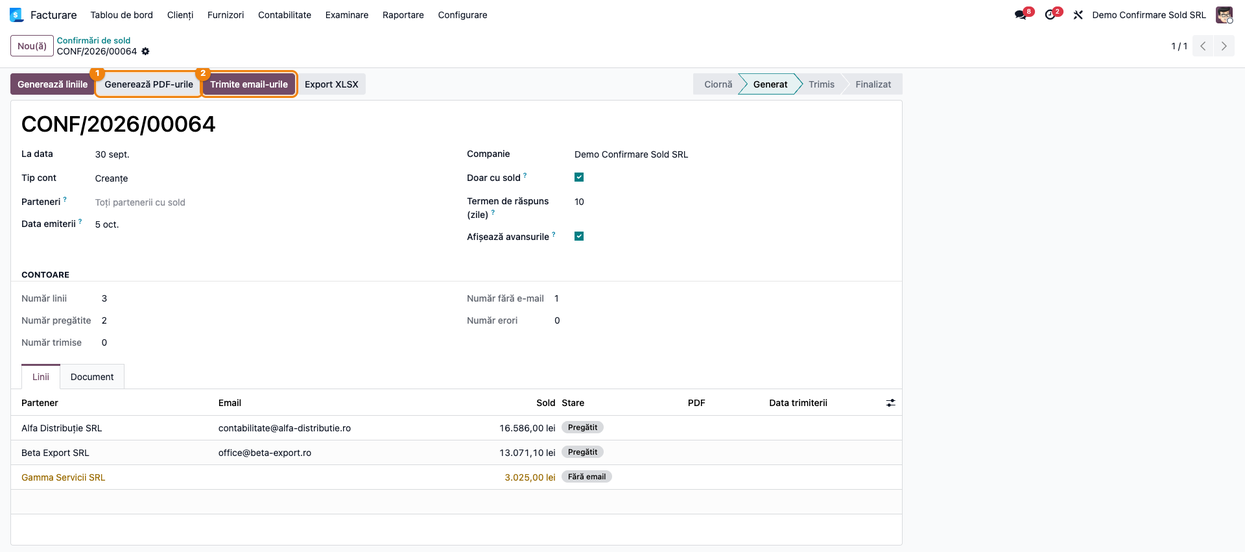
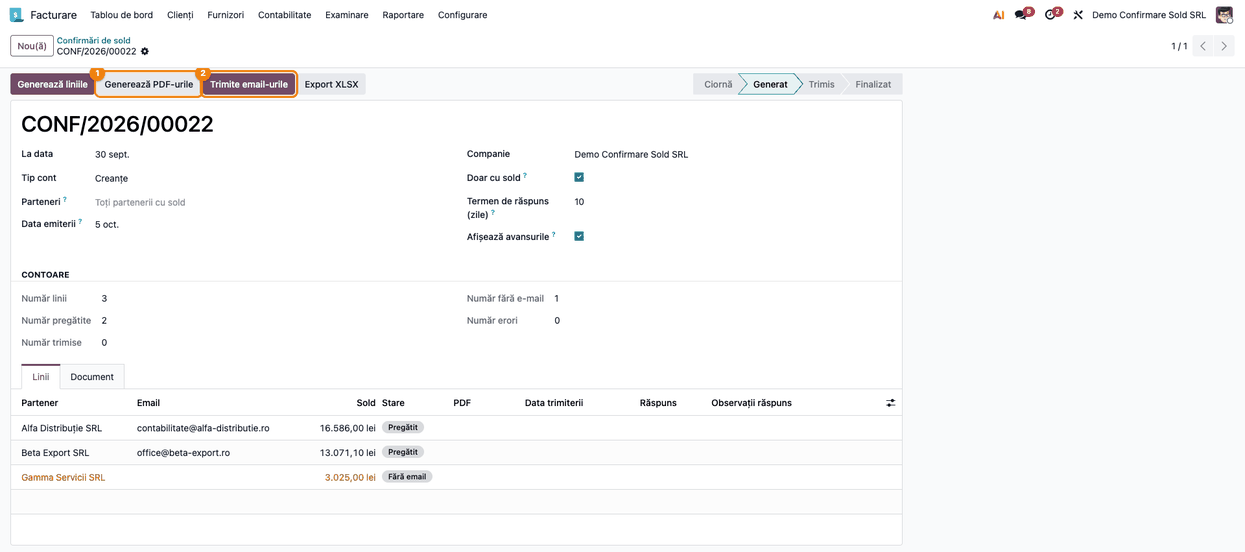
Wiki: l10n_ro_balance_confirmation 19.0.2.3.0 — urmărirea răspunsurilor partenerilor (l10n_ro_ent#709)

diff --git a/l10n_ro_balance_confirmation/FISA_CONSULTANT.md b/l10n_ro_balance_confirmation/FISA_CONSULTANT.md
@@ -20,6 +20,8 @@ Se lucrează în două feluri:
 - **tipărire la cerere**, pentru unul sau mai mulți parteneri aleși;
 - **campanie pe email**: un document numerotat care generează câte o linie per partener, atașează
   PDF-ul și îl trimite, urmărind starea fiecărui partener (pregătit / fără email / trimis / eroare).
+  Emailul rămâne în istoricul (chatterul) partenerului. Răspunsul partenerului intră în același
+  fir, iar linia arată dacă soldul a fost confirmat sau nu, cu diferența declarată de partener.
 
 ## 2. Bază legală și context
 
@@ -42,7 +44,8 @@ Se lucrează în două feluri:
 ## 3. Utilizatori și roluri
 
 - **Contabil clienți / furnizori** — tipărește confirmările la cerere și rulează campania pe email.
-- **Contabil-șef** — stabilește semnatarii impliciți și controlează răspunsurile.
+- **Contabil-șef** — stabilește semnatarii impliciți și controlează răspunsurile: marchează
+  soldurile confirmate și neconfirmate și urmărește diferențele.
 
 Drepturi necesare:
 - **Campania pe email** (meniul „Confirmări de sold”) și **tipărirea la cerere** (dialogul
@@ -90,6 +93,10 @@ Date minime pentru demo (cele din capturi, la 30.09.2026):
 5. Verificați că există un server de email de ieșire configurat (**Setări → Tehnic → Servere de
    email de ieșire**; meniul Tehnic apare în modul dezvoltator). Dacă trimiterea eșuează, linia
    campaniei trece în „Eroare”, cu mesajul serverului.
+6. Ca răspunsurile partenerilor să intre automat în Odoo, configurați **domeniul de alias** și
+   adresa **catchall** (**Setări → Setări generale → Discuții → Domeniu alias**) și un **server de
+   email de intrare**. Fără ele, emailul trimis apare tot în chatterul partenerului, dar răspunsul
+   ajunge doar în căsuța de email a companiei, iar linia se marchează manual (Pasul 10).
 
 ## 6. Flux de utilizare
 
@@ -204,7 +211,9 @@ Apăsați apoi **Generează PDF-urile** și **Trimite email-urile**.
 După trimitere, fiecare linie are:
 - starea **Trimis**;
 - PDF-ul atașat („Confirmare de sold - <partener> - <dată>.pdf”);
-- **data trimiterii**.
+- **data trimiterii**;
+- răspunsul **Așteaptă răspuns**. Grupul **Răspunsuri** de deasupra liniilor numără liniile pe
+  fiecare stare a răspunsului.
 
 Campania trece în **Finalizat** când toți partenerii cu email au primit documentul. O linie cu
 **Eroare** păstrează mesajul serverului de email. După corectare (serverul de email, adresa
@@ -213,6 +222,68 @@ partenerului sau emailul completat ulterior pe un partener „Fără email”), 
 campanie descarcă documentele deschise ale tuturor partenerilor din campanie.
 
 ![Campania trimisă: stări, PDF atașat, data trimiterii](screenshots/08_campanie_trimisa.png)
+
+### Pasul 9 — Emailul și răspunsul în chatterul partenerului
+
+Deschideți fișa partenerului (**Facturare → Clienți → Clienți**) sau apăsați, pe linia campaniei,
+butonul cu iconița de mesaje. În chatter, în dreapta, apare:
+- **emailul trimis** („Confirmare de sold la …”), cu textul în limba partenerului și PDF-ul
+  atașat. Emailul pleacă doar către partener: urmăritorii fișei nu primesc copie;
+- **răspunsul partenerului**, dacă a răspuns la email („Re: Confirmare de sold la …”), cu
+  atașamentele lui (de regulă extrasul semnat).
+
+Când răspunsul intră, linia campaniei trece automat din **Așteaptă răspuns** în **Răspuns
+primit**, iar în chatterul campaniei apare nota „Răspuns primit de la <partener>”.
+
+**Verificați:**
+- răspunsul stă imediat sub emailul trimis, ca răspuns la el;
+- atașamentul primit este extrasul semnat de partener;
+- textul spune dacă soldul e confirmat sau ce obiecții are partenerul.
+
+Numai răspunsul la emailul confirmării schimbă starea liniei. Un email nou de la partener, pe alt
+subiect, apare în chatter, dar nu atinge linia.
+
+![Chatterul partenerului: emailul confirmării și răspunsul lui](screenshots/09_chatter_partener_raspuns.png)
+
+### Pasul 10 — Marcarea răspunsurilor pe campanie
+
+Reveniți în campanie (**Facturare → Clienți → Confirmări de sold**). Butonul **Răspunsuri de
+verificat** din partea de sus arată câte linii au răspuns primit și încă nemarcat. Pe fiecare
+linie, după ce ați citit răspunsul:
+- **bifa** marchează soldul **Confirmat**;
+- **crucea** îl marchează **Neconfirmat**. Completați **Soldul partenerului** (suma declarată de
+  el): **Diferența** se calculează ca sold în evidența noastră minus soldul partenerului. Notați
+  explicația în **Observații răspuns**.
+
+Butoanele merg și fără răspuns pe email: dacă partenerul a trimis extrasul semnat pe altă cale
+(poștă, alt email), marcați linia direct din **Așteaptă răspuns**.
+
+**Verificați** pe exemplul din captură:
+- Alfa Distribuție are **Răspuns primit**: confirmarea de 16.586,00 lei din Pasul 9, încă
+  nemarcată;
+- Beta Export este **Neconfirmat**: partenerul declară 12.574,10 lei față de 13.071,10 lei la noi,
+  deci diferența este **497,00 lei** (100 EUR × 4,97). Observația spune de unde vine: o plată de
+  100 EUR pe care partenerul o are, iar noi nu;
+- contoarele **Răspunsuri** (Așteaptă / Primit / Confirmat / Neconfirmat) corespund liniilor.
+
+![Campania cu răspunsurile: Răspuns primit, Neconfirmat cu diferență](screenshots/10_campanie_raspunsuri.png)
+
+### Pasul 11 — Situația răspunsurilor pentru inventariere
+
+Accesați **Facturare → Clienți → Răspunsuri la confirmările de sold**. Lista arată toate liniile
+trimise, din toate campaniile: partenerul, soldul, data trimiterii, răspunsul, data răspunsului,
+soldul declarat de partener, diferența și observațiile. Marcarea Confirmat / Neconfirmat se poate
+face și de aici.
+
+1. **Găsiți** — filtrele **Așteaptă răspuns**, **Răspuns primit**, **Confirmat**, **Neconfirmat**
+   și gruparea pe **Campanie** sau pe **Răspuns** din căutare.
+2. **Verificați** — cu filtrul **Neconfirmat**, coloana **Diferență** are totalul în subsolul
+   listei: este suma diferențelor de lămurit. Cu filtrul **Așteaptă răspuns**, rămân partenerii
+   care n-au răspuns în termen.
+3. **Treceți mai departe** — bifați liniile filtrate și alegeți **Acțiuni → Exportă**: fișierul
+   este anexa la procesul-verbal de inventariere, cu soldurile neconfirmate și cele în litigiu.
+
+![Lista răspunsurilor la confirmările de sold](screenshots/11_lista_raspunsuri.png)
 
 ### Note de monografie și raportare
 
@@ -239,7 +310,7 @@ Regula de control: **soldul confirmat = suma resturilor de plată din tabel**, p
 |---|---|
 | `account` | facturi, plăți și reconcilieri; sursa soldurilor și a resturilor de plată |
 | `l10n_ro` | planul de conturi românesc (4111, 401, 409, 419) |
-| `mail` | șablonul de email bilingv și trimiterea campaniei |
+| `mail` | șablonul de email bilingv, trimiterea campaniei prin chatterul partenerului și primirea răspunsurilor |
 | `l10n_ro_inventory_register` | registrul-inventar, unde se reflectă soldurile inventariate |
 
 **Ce e automat:**
@@ -247,7 +318,10 @@ Regula de control: **soldul confirmat = suma resturilor de plată din tabel**, p
 - gruparea pe monede și contravaloarea în lei;
 - semnatarii preluați de pe companie;
 - limba documentului (română pentru partenerii din România);
-- generarea liniilor, a PDF-urilor și trimiterea pe email cu urmărirea stării.
+- generarea liniilor, a PDF-urilor și trimiterea pe email cu urmărirea stării;
+- păstrarea emailului în chatterul partenerului și legarea răspunsului de linia campaniei
+  („Răspuns primit”), când răspunsurile intră prin catchall;
+- diferența dintre soldul nostru și cel declarat de partener.
 
 Reevaluarea valutară lunară (`l10n_ro_currency_revaluation`) se înregistrează global pe cont, fără
 partener. Prin urmare, nu modifică soldul în lei din extrasul de cont, care rămâne la cursul
@@ -256,7 +330,10 @@ documentelor.
 **Ce rămâne manual:**
 - configurarea semnatarilor și a adreselor de email;
 - trimiterea extrasului către partenerii fără email;
-- urmărirea răspunsurilor și a soldurilor neconfirmate sau în litigiu;
+- citirea răspunsului și marcarea liniei **Confirmat** / **Neconfirmat**, cu soldul declarat de
+  partener;
+- marcarea răspunsurilor primite pe altă cale (poștă, alt email);
+- reamintirea partenerilor care n-au răspuns în termen;
 - regularizarea diferențelor constatate.
 
 ## 8. Verificări pentru consultant
@@ -277,6 +354,13 @@ documentelor.
 - [ ] După trimitere, liniile au starea „Trimis”, PDF atașat și data trimiterii.
 - [ ] Cu serverul de email oprit, linia trece în „Eroare” (nu „Trimis”), cu mesajul serverului.
 - [ ] Un partener „Fără email” căruia i se completează adresa primește extrasul la o nouă apăsare pe „Trimite email-urile”.
+- [ ] După trimitere, emailul cu PDF-ul atașat apare în chatterul partenerului, iar linia are răspunsul „Așteaptă răspuns”.
+- [ ] Urmăritorii fișei partenerului nu primesc copie a emailului.
+- [ ] Un răspuns al partenerului la email (cu catchall configurat) intră în chatterul lui și trece linia în „Răspuns primit”; în chatterul campaniei apare nota.
+- [ ] Un email nou al partenerului, care nu e răspuns la confirmare, nu schimbă starea liniei.
+- [ ] La „Neconfirmat” cu soldul partenerului completat, diferența = soldul nostru − soldul partenerului; la „Confirmat” diferența e zero.
+- [ ] Contoarele „Răspunsuri” din campanie și butonul „Răspunsuri de verificat” corespund liniilor.
+- [ ] Meniul „Răspunsuri la confirmările de sold” arată liniile trimise din toate campaniile, cu filtrele pe răspuns și totalul diferențelor.
 
 ## 9. Mesaje de eroare frecvente
 
@@ -290,6 +374,9 @@ documentelor.
 | Soldul diferă de fișa partenerului pe 461 / 462 / 425 | Pe extras intră doar conturile comerciale (411/413, 401/403/404) | Normal: celelalte conturi nu se confirmă prin extrasul de cont |
 | Linie în starea „Eroare”, cu mesajul serverului de email | Server de email neconfigurat sau adresă invalidă | Verificați serverul și adresa, apoi „Trimite email-urile” |
 | Soldul în lei diferă de balanța 4111 după reevaluare | Reevaluarea lunară e înregistrată global, fără partener | Normal: extrasul arată contravaloarea la cursul documentelor; suma confirmată e cea în valută |
+| Partenerul a răspuns, dar linia rămâne „Așteaptă răspuns” | Fără domeniu de alias / catchall sau server de intrare, răspunsul n-a intrat în Odoo; ori partenerul a scris un email nou, nu un răspuns | Configurați aliasul și serverul de intrare (secțiunea 5) sau marcați linia manual |
+| Răspunsul apare în chatterul partenerului, dar linia nu se schimbă | Răspuns la un email trimis înainte de actualizarea modulului, sau linia era deja marcată | Marcați linia manual cu bifa sau crucea |
+| Diferența egală cu tot soldul la „Neconfirmat” | Soldul partenerului necompletat (zero) | Completați „Soldul partenerului” cu suma declarată |
 | Soldul diferă de fișa partenerului de azi | Documentul arată soldul la data confirmării, nu azi | Comparați cu fișa partenerului filtrată până la aceeași dată |
 
 ## 10. Capturi de ecran
@@ -307,7 +394,10 @@ Lista capturilor (în ordinea fluxului):
 5. `05_export_xlsx.png` — exportul XLSX al documentelor deschise
 6. `06_campanie_optiuni.png` — campanie nouă, fila „Document”
 7. `07_campanie_linii.png` — liniile generate, cu soldul la dată și starea
-8. `08_campanie_trimisa.png` — campania trimisă: stări, PDF atașat, data trimiterii
+8. `08_campanie_trimisa.png` — campania trimisă: stări, PDF atașat, data trimiterii, „Așteaptă răspuns”
+9. `09_chatter_partener_raspuns.png` — chatterul partenerului: emailul confirmării și răspunsul lui
+10. `10_campanie_raspunsuri.png` — campania cu răspunsurile: Răspuns primit, Neconfirmat cu diferență
+11. `11_lista_raspunsuri.png` — lista „Răspunsuri la confirmările de sold”, din toate campaniile
 
 Regenerare:
 ```
@@ -325,7 +415,13 @@ Regenerare:
 - La valută, partenerul confirmă suma **în valută**. Contravaloarea în lei e informativă, la cursul
   documentelor, fără reevaluarea lunară.
 - Avansurile 419/409 sunt conturi distincte de 4111/401: apar pe rânduri separate, nu „din care”.
-- Răspunsurile partenerilor (confirmat / neconfirmat / cu obiecții) se urmăresc în afara
-  modulului. Semnarea electronică a răspunsului este propusă în ROADMAP (E1).
+- Răspunsurile partenerilor se urmăresc pe linia campaniei: răspunsul la email marchează linia
+  automat („Răspuns primit”), iar confirmarea sau neconfirmarea o decide contabilul, după ce
+  citește răspunsul. Insistați pe configurarea aliasului și a serverului de intrare: fără ele,
+  răspunsurile nu intră în Odoo.
+- Lista „Răspunsuri la confirmările de sold”, filtrată pe „Neconfirmat” și „Așteaptă răspuns”, este
+  situația soldurilor neconfirmate și în litigiu cerută la inventariere.
+- Reamintirea automată a partenerilor fără răspuns și semnarea electronică a răspunsului sunt
+  propuse în ROADMAP.
 - Pentru inventarierea anuală, campania se rulează la data închiderii exercițiului, iar exportul
   XLSX servește ca bază pentru situația soldurilor neconfirmate.

diff --git a/l10n_ro_balance_confirmation/index.md b/l10n_ro_balance_confirmation/index.md
@@ -1,15 +1,15 @@
 # Romania - Confirmare de sold (localizat la `l10n_ro_balance_confirmation/index.md`)
 
 - **Nume Tehnic:** `l10n_ro_balance_confirmation`
-- **Versiune:** `19.0.2.2.2`
+- **Versiune:** `19.0.2.3.0`
 - **Cale:** https://github.com/terrabit-solutions/l10n_ro_ent/tree/19.0/l10n_ro_balance_confirmation
 - **Cale Locală:** `odoo-addons/l10n_ro_ent/l10n_ro_balance_confirmation`
-- **Ultima Ingestie:** `2026-10-09`
+- **Ultima Ingestie:** `2026-10-14`
 - **Fișă Consultant:** [FISA_CONSULTANT.md](FISA_CONSULTANT.md)
 
 #### 1. Sumar
 
-Modulul generează documente de confirmare a soldului (extras de cont) pentru partenerii de afaceri, conform cerințelor contabile din România. Combină două fluxuri complementare: tipărirea la cerere pentru unul sau mai mulți parteneri la o dată aleasă și o campanie de trimitere în masă prin email, cu un document dedicat care păstrează câte o linie per partener și urmărește starea fiecărei confirmări. Extrasul arată soldul la dată, documentele rămase deschise la acea dată, defalcarea pe monede și semnăturile conducerii. Ajută firmele să deruleze campanii periodice de reconciliere a soldurilor și să păstreze un istoric auditabil al comunicării cu partenerii.
+Modulul generează documente de confirmare a soldului (extras de cont) pentru partenerii de afaceri, conform cerințelor contabile din România. Combină două fluxuri complementare: tipărirea la cerere pentru unul sau mai mulți parteneri la o dată aleasă și o campanie de trimitere în masă prin email, cu un document dedicat care păstrează câte o linie per partener și urmărește starea fiecărei confirmări. Extrasul arată soldul la dată, documentele rămase deschise la acea dată, defalcarea pe monede și semnăturile conducerii. Emailul campaniei rămâne în chatterul partenerului, iar răspunsul partenerului intră în același fir și marchează linia; contabilul decide apoi dacă soldul e confirmat sau nu. Ajută firmele să deruleze campanii periodice de reconciliere a soldurilor, să urmărească soldurile neconfirmate la inventariere și să păstreze un istoric auditabil al comunicării cu partenerii.
 
 #### 2. Funcționalități Cheie
 
@@ -21,10 +21,11 @@ Modulul generează documente de confirmare a soldului (extras de cont) pentru pa
 - **Avansuri**: soldurile conturilor 409/419, calculate la data confirmării, tipărite pe rânduri separate sub soldul principal.
 - **Semnături cu nume și funcție** *(nou)*: conducătorul unității și conducătorul compartimentului financiar-contabil, cu valori implicite pe companie (**Setări → Utilizatori și companii → Companii**, fila **Confirmare sold**), modificabile la fiecare tipărire sau campanie. Titlul documentului e editabil (implicit „EXTRAS DE CONT”).
 - **Șablon de document**: emitent și destinatar, textul standard de confirmare și formular de răspuns (sumă confirmată în moneda documentului, modalitate de plată, obiecții, semnături). Partenerii din România primesc documentul în română, ceilalți în limba lor.
-- **Campanie pe email cu urmărire**: document numerotat `CONF/YYYY/00001` (**Facturare → Clienți → Confirmări de sold**), cu flux `draft → generated → sent → done`. Scop pe parteneri sau pe tip de cont (creanțe / datorii / ambele), opțiunea **Doar cu sold**; partenerii se aleg după soldul la dată, nu după starea de reconciliere de azi. Câte o linie per partener (`ready` / `no email` / `sent` / `error`) cu soldul, PDF-ul atașat și data trimiterii. Butoane: **Generează liniile → Generează PDF-urile → Trimite email-urile** sau **Generează și trimite**. Șablon de email bilingv (RO/EN) cu PDF atașat. Contoare live și istoric în chatter.
+- **Campanie pe email cu urmărire**: document numerotat `CONF/YYYY/00001` (**Facturare → Clienți → Confirmări de sold**), cu flux `draft → generated → sent → done`. Scop pe parteneri sau pe tip de cont (creanțe / datorii / ambele), opțiunea **Doar cu sold**; partenerii se aleg după soldul la dată, nu după starea de reconciliere de azi. Câte o linie per partener (`ready` / `no email` / `sent` / `error`) cu soldul, PDF-ul atașat și data trimiterii. Butoane: **Generează liniile → Generează PDF-urile → Trimite email-urile** sau **Generează și trimite**. Șablon de email bilingv (RO/EN, după limba de pe fișa partenerului) cu PDF atașat, postat în **chatterul partenerului** (fără copie la urmăritorii fișei). Contoare live și istoric în chatter.
+- **Urmărirea răspunsurilor** *(nou, 19.0.2.3.0)*: răspunsul partenerului la emailul confirmării (prin catchall) intră în chatterul lui și trece linia din **Așteaptă răspuns** în **Răspuns primit**, cu notă în chatterul campaniei. Un email nou al partenerului, care nu e răspuns la confirmare, nu atinge linia. Contabilul marchează linia **Confirmat** sau **Neconfirmat**; la neconfirmare completează soldul declarat de partener, iar **Diferența** (sold nostru − sold partener) se calculează automat, cu observații. Campania are contoare pe răspunsuri și butonul **Răspunsuri de verificat**; meniul **Facturare → Clienți → Răspunsuri la confirmările de sold** listează liniile trimise din toate campaniile, cu filtre pe răspuns, pentru situația soldurilor neconfirmate și în litigiu de la inventariere.
 - **Reluare după erori**: o eroare de la serverul de email (SMTP) duce linia în starea `error`, cu mesajul serverului; **Trimite email-urile** retrimite liniile cu eroare și pe cele fără email care au primit între timp o adresă.
 - **Drepturi de acces**: grupurile „Poate tipări confirmare sold” și „Trimitere confirmări de sold”. Cu Contabilitate (Enterprise) le primesc rolurile Contabil și Administrator; doar cu Facturare (Community) le primește rolul Administrator.
-- **Cerințe**: partenerii din campanie trebuie să aibă email completat, iar serverul de email de ieșire trebuie configurat.
+- **Cerințe**: partenerii din campanie trebuie să aibă email completat, iar serverul de email de ieșire trebuie configurat. Ca răspunsurile să intre automat în Odoo: domeniu de alias, adresă catchall și server de email de intrare; fără ele, emailul apare tot în chatterul partenerului, dar linia se marchează manual.
 
 #### 3. Dependențe
 
@@ -36,12 +37,12 @@ Modulul generează documente de confirmare a soldului (extras de cont) pentru pa
 
 **Modele**
 
-- `res.partner` (`models/res_partner.py`): `_credit_debit_get` cu context `date_to` pentru soldurile de încasat/plătit la o dată dată.
+- `res.partner` (`models/res_partner.py`): `_credit_debit_get` cu context `date_to` pentru soldurile de încasat/plătit la o dată dată; `_message_post_after_hook` leagă emailul primit (`parent_id` = mesajul confirmării) de linia campaniei.
 - `account.move.line` (`models/account_move_line.py`): suport pentru calculul soldurilor și al restului la dată istorică.
 - `res.company` (`models/res_company.py`): numele și funcția semnatarilor impliciți.
 - `l10n.ro.balance.confirmation.options` (`models/l10n_ro_balance_confirmation_options.py`): model abstract cu opțiunile documentului (documente deschise, filtru de monedă, titlu, semnatari), comun dialogului de tipărire și campaniei.
 - `l10n.ro.balance.confirmation` (`models/l10n_ro_balance_confirmation.py`): documentul de campanie, cu numerotare, dată de referință, tip de cont, filtrare parteneri și flux `draft → generated → sent → done`.
-- `l10n.ro.balance.confirmation.line` (`models/l10n_ro_balance_confirmation_line.py`): linia per partener, cu stare, sold, PDF atașat și data trimiterii.
+- `l10n.ro.balance.confirmation.line` (`models/l10n_ro_balance_confirmation_line.py`): linia per partener, cu stare, sold, PDF atașat și data trimiterii; mesajul trimis (`mail_message_id`), starea răspunsului (`response_state`: pending / replied / confirmed / disputed), data și mesajul răspunsului, soldul partenerului, diferența și observațiile. Trimiterea se face cu `message_post` pe partener, sincron, ca eroarea SMTP să marcheze linia.
 - `l10n_ro.balance_confirm_dialog` (`wizard/confirm_balance.py`): dialogul de tipărire la cerere.
 - `report.l10n_ro_balance_confirmation.report_partner_balance` (`report/res_partner.py`): raport QWeb cu logica de calcul a documentelor deschise, a restului la dată și a grupării pe monede.
 
@@ -50,14 +51,15 @@ Modulul generează documente de confirmare a soldului (extras de cont) pentru pa
 - `views/res_partner_balance.xml`: șablonul QWeb al extrasului și acțiunea de raport (`action_report_partner_balance`).
 - `wizard/confirm_balance.xml`: dialogul și acțiunea de tipărire (`action_balance_confirmation`).
 - `l10n_ro_balance_confirmation_view_form` / `l10n_ro_balance_confirmation_view_list`: formular și listă pentru campanie, cu contoare și fila **Document**.
+- `l10n_ro_balance_confirmation_line_view_list` / `l10n_ro_balance_confirmation_line_view_search` / `l10n_ro_balance_confirmation_line_action`: lista editabilă a răspunsurilor, cu filtre și grupări, sub meniul `menu_l10n_ro_balance_confirmation_line`.
 - `view_company_form_balance_confirmation`: fila **Confirmare sold** pe companie, pentru semnatarii impliciți.
 
 **Acțiuni Automate / Acțiuni Server**
 
-- Nu are cron-uri sau acțiuni server. Datele: `seq_balance_confirmation` (secvența `CONF/YYYY/00001`) și `mail_template_balance_confirmation` (șablonul de email bilingv). Securitate: grupurile `group_print_balance` și `group_balance_confirmation_send`, plus regula multi-companie `balance_confirmation_company_rule`.
+- Nu are cron-uri sau acțiuni server. Datele: `seq_balance_confirmation` (secvența `CONF/YYYY/00001`) și `mail_template_balance_confirmation` (șablonul de email bilingv). Securitate: grupurile `group_print_balance` și `group_balance_confirmation_send`, plus regulile multi-companie `balance_confirmation_company_rule` și `balance_confirmation_line_company_rule`.
 
 #### 5. Conexiuni
 
 - `account`: sursa soldurilor și a reconcilierilor parțiale (`account.partial.reconcile`) folosite la calculul restului la dată.
 - `l10n_ro`: planul de conturi românesc, pe baza căruia se filtrează conturile comerciale.
-- `mail`: trimiterea emailurilor și chatter-ul campaniei.
+- `mail`: trimiterea emailurilor prin chatterul partenerului, primirea răspunsurilor prin gateway și chatter-ul campaniei.

diff --git a/log.md b/log.md
@@ -4,6 +4,14 @@ This is an append-only log of all operations performed on the wiki.
 
 ---
 
+## [2026-10-14] Re-ingestie: `l10n_ro_balance_confirmation` 19.0.2.2.2 → 19.0.2.3.0
+
+- **Acțiune:** actualizare după terrabit-solutions/l10n_ro_ent#709: emailul campaniei e postat în chatterul partenerului, răspunsul partenerului (prin catchall) marchează linia „Răspuns primit”, marcare Confirmat / Neconfirmat cu soldul partenerului și diferența, meniul „Răspunsuri la confirmările de sold”, condiția alias/catchall/server de intrare.
+- **Sursă:** `readme/DESCRIPTION.md`, `USAGE.md`, `CONFIGURE.md`, `HISTORY.md` + control în cod; fișa consultant recopiată (pașii 9–11 noi), capturile 07–08 recopiate și 09–11 noi, cu căile rescrise în `screenshots/`.
+- **Fișiere actualizate:** `l10n_ro_balance_confirmation/` (`index.md`, `FISA_CONSULTANT.md`, `screenshots/`), `index.md`, `log.md`, `.index/`.
+
+---
+
 ## [2026-10-13] Re-ingestie: `l10n_ro_reports_fix` 19.0.0.0.14 și `l10n_ro_off_balance` 19.0.1.0.3
 
 - **Acțiune:** actualizare după terrabit-solutions/l10n_ro_ent#698 (fișe consultant complete), procesare în paralel. `l10n_ro_off_balance` are acum fișă consultant (7 capturi: setări, 803999, grupele clasei 8, jurnalul EXTR, nota de custodie, controlul pe clasa 8, nota de transfer în ciornă). `l10n_ro_reports_fix`: pagina urmează tabelul „Ce înseamnă fiecare funcționalitate” din fișă; Balanța brută explicată cu 121 (Odoo mută 6xx, 7xx și 121 pe „Result Brought Forward”); tipul de cont „În Afara bilanțului”.
